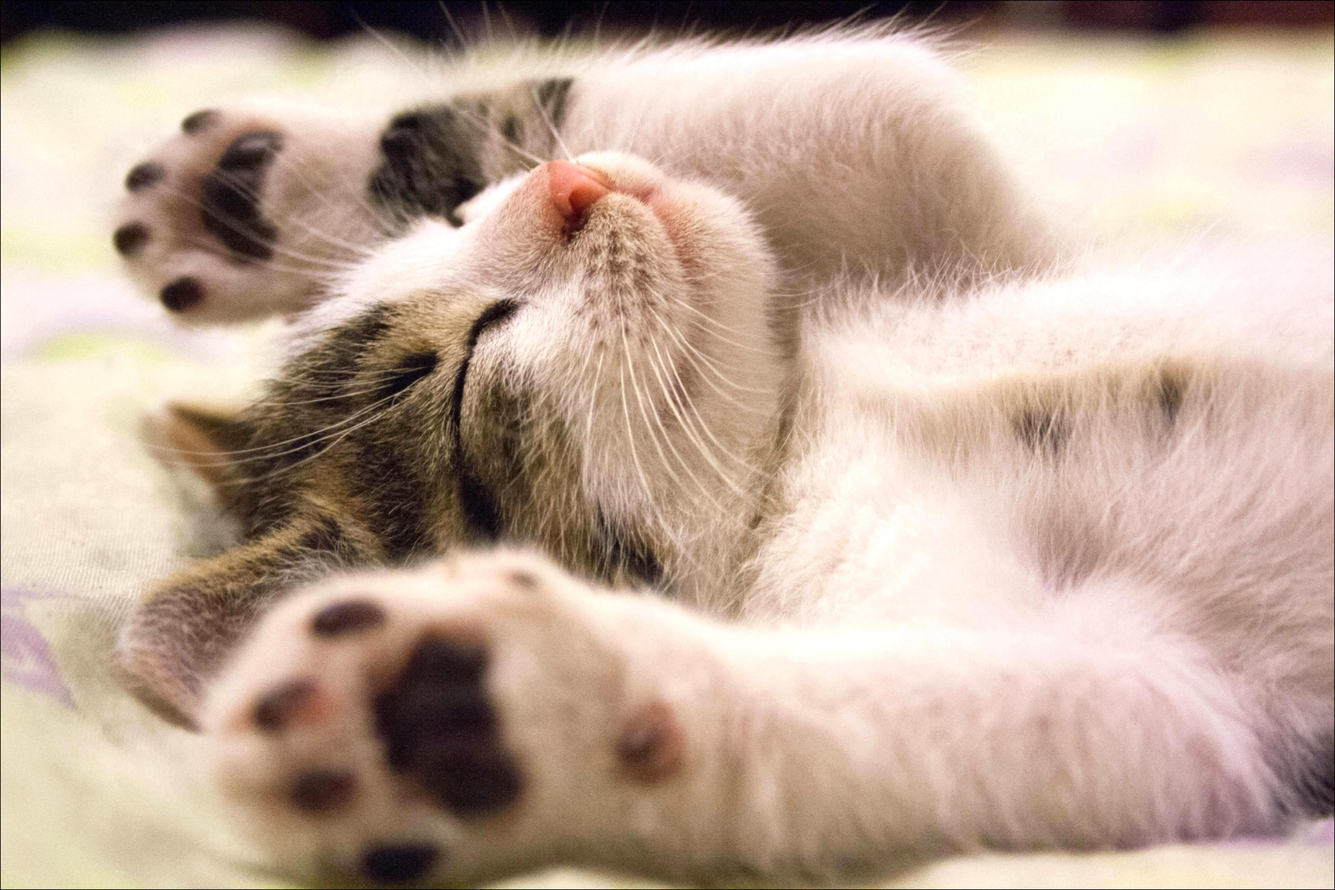
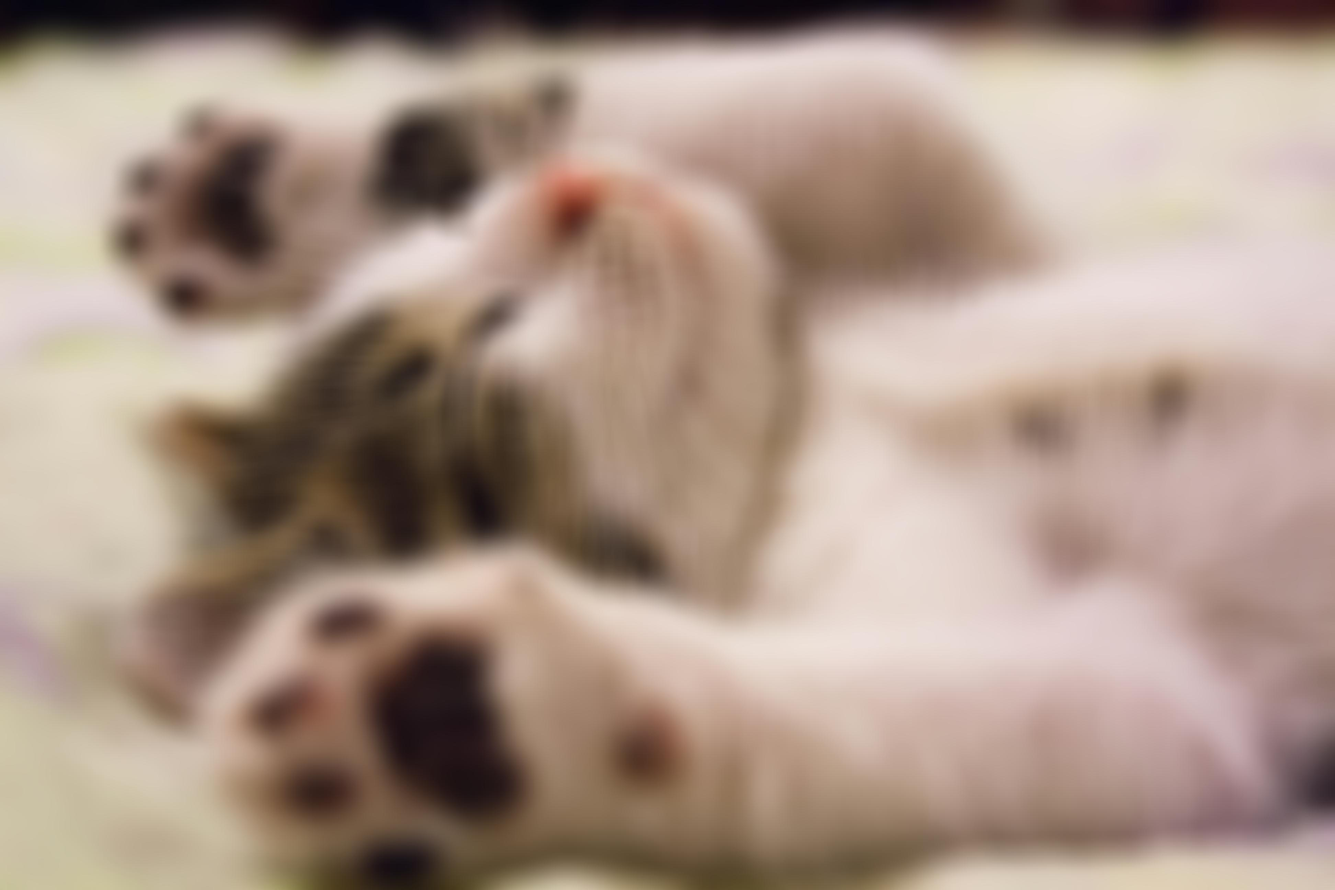
add some comments and use numpy

diff --git a/main.py b/main.py
@@ -1,167 +1,192 @@
 from PIL import Image
-#TODO : fourier filter
-
-sharp_kernal    = [[0, -1, 0], [-1, 5, -1], [0, -1, 0]]
-blur_kernal3by3 = [[1/9, 1/9, 1/9], [1/9, 1/9, 1/9], [1/9, 1/9, 1/9]]
-blur_kernel5by5 = [
-    [ 1/225,  4/225,  6/225,  4/225,  1/225],
-    [ 4/225, 16/225, 24/225, 16/225,  4/225],
-    [ 6/225, 24/225, 36/225, 24/225,  6/225],
-    [ 4/225, 16/225, 24/225, 16/225,  4/225],
-    [ 1/225,  4/225,  6/225,  4/225,  1/225]
-]
-
+import numpy as np
+# Define kernels for image filtering
+sharp_kernal = [[0, -1, 0], [-1, 5, -1], [0, -1, 0]]  # Kernel for sharpening
+blur_kernel101by101 = np.ones((101, 101)) / 101**2  # 101x101 blur kernel
 
 def load_image(image_path) -> Image:
     """ Load an image from the specified file path """
-    image = Image.open(image_path)
-    image.load()
-    return image
-
+    image = Image.open(image_path)  # Open the image file
+    image.load()  # Ensure the image is loaded into memory
+    return image  # Return the loaded image
 
 def color_filter(image: Image, rgb: dict) -> Image:
-    """ Apply a red filter to the image
-        - rgb: dictionary with the percentage to increase the color [ r : [0,100%] , g : [0,100%] , b : [0,100%] ]
     """
-
-    pixels = image.load()
+    Apply a color filter to the image.
+    - rgb: dictionary with percentages to adjust the colors (r, g, b).
+    """
+    pixels = image.load()  # Access the image pixels
     for i in range(image.width):
         for j in range(image.height):
-            r, g, b = pixels[i, j]
-            pixels[i, j] = (r + int(r * rgb["r"] / 100), g + int(g * rgb["g"] / 100), r + int(b * rgb["b"] / 100))
-    return image
-
+            r, g, b = pixels[i, j]  # Get the current pixel values
+            # Adjust the pixel values by the specified percentage
+            pixels[i, j] = (
+                r + int(r * rgb["r"] / 100),
+                g + int(g * rgb["g"] / 100),
+                b + int(b * rgb["b"] / 100)
+            )
+    return image  # Return the modified image
 
 def brightness(image: Image, brightness: float) -> Image:
-    """ Apply a brightness filter to the image """
+    """
+    Apply a brightness filter to the image.
+    - brightness: positive percentage to increase brightness.
+    """
     if brightness < 0:
         raise ValueError("Brightness must be a positive number")
+    # Use the color filter function to apply the same increase to all channels
     return color_filter(image, {"r": brightness, "g": brightness, "b": brightness})
 
-
 def darkness(image: Image, darkness: float) -> Image:
-    """ Apply a darkness filter to the image
-        - darkness: percentage to decrease [0,100%]"""
-    if not ( 0 <= darkness <= 100):
-        raise ValueError("Darkness must be a positive number")
+    """
+    Apply a darkness filter to the image.
+    - darkness: percentage to decrease brightness in each channel.
+    """
+    if not (0 <= darkness <= 100):
+        raise ValueError("Darkness must be between 0 and 100")
+    # Use a negative percentage to reduce brightness in all channels
     return color_filter(image, {"r": -darkness, "g": -darkness, "b": -darkness})
 
-# \text{Luminance} = 0.299 \times R + 0.587 \times G + 0.114 \times B
 def gray(image: Image, use_luminance: bool = True) -> Image:
-    """ Convert the image to grayscale
-        - use_luminance: if True use the luminance formula, otherwise use the average of the RGB values """
+    """
+    Convert the image to grayscale.
+    - use_luminance: if True, use luminance formula; otherwise, use the RGB average.
+    """
+    # Create a new grayscale image
     new_image = Image.new("L", (image.width, image.height))
     new_image.load()
     for i in range(image.width):
         for j in range(image.height):
-            r, g, b = image.getpixel((i, j))
-            # calculate luminance which is the average of the RGB values
-            if (use_luminance):
-                luminance = int(0.299 * r + 0.587 * g + 0.114 * b)
-            else:
-                luminance = int((r + g + b) / 3)
-            new_image.putpixel((i, j), luminance)
-    return new_image
-
+            r, g, b = image.getpixel((i, j))  # Get the RGB values of the pixel
+            # Calculate luminance or average based on the parameter
+            luminance = int(0.299 * r + 0.587 * g + 0.114 * b) if use_luminance else int((r + g + b) / 3)
+            new_image.putpixel((i, j), luminance)  # Set the grayscale value
+    return new_image  # Return the grayscale image
 
 def save_image(image: Image, save_path: str) -> None:
-    """ Save an image to the specified file path """
+    """ Save the image to the specified file path """
     image.save(save_path)
 
-
-def black_and_white(image: Image, threshold: int , use_luminance = True) -> Image:
-    """ Convert the image to black and white
-        - threshold: value to determine if the pixel is black or white """
-    # Convert the image to grayscale
+def black_and_white(image: Image, threshold: int, use_luminance=True) -> Image:
+    """
+    Convert the image to black and white.
+    - threshold: Value to determine the cutoff between black and white.
+    """
     if not (0 <= threshold <= 256):
         raise ValueError("Threshold must be between 0 and 256")
-
+    # Convert the image to grayscale first
     new_image = Image.new("L", (image.width, image.height))
     new_image.load()
     for i in range(image.width):
         for j in range(image.height):
-            r, g, b = image.getpixel((i, j))
-            if use_luminance :
-                luminance = int(0.299 * r + 0.587 * g + 0.114 * b)
-            else :
-                luminance = (r + g + b) // 3
-            if luminance > threshold:
-                new_image.putpixel((i, j), 255)
-            else:
-                new_image.putpixel((i, j), 0)
+            r, g, b = image.getpixel((i, j))  # Get the RGB values
+            # Calculate luminance or average based on the parameter
+            luminance = int(0.299 * r + 0.587 * g + 0.114 * b) if use_luminance else (r + g + b) // 3
+            # Compare with threshold and set pixel to either black or white
+            new_image.putpixel((i, j), 255 if luminance > threshold else 0)
     return new_image
 
-#TODO : use np and give the ability to change the degree of the blur
 def convolution(image: Image, kernel: list) -> Image:
-    """ Apply a convolution filter to the image
-        - kernel: 2D list with the kernel values."""
-    new_image = Image.new("RGB", (image.width, image.height))
+    """
+    Apply a convolution filter to the image.
+    - kernel: 2D list representing the convolution kernel.
+    """
+    new_image = Image.new("RGB", (image.width, image.height))  # Create an output image
     new_image.load()
     pixels = image.load()
-    radius = len(kernel)//2
-    # start from second pixel and end at the second last pixel
-    for i in range(radius ,  image.width-radius):
-        for j in range(radius , image.height-radius):
-            new_pixel = [0, 0, 0]
-            for x in range(-radius, radius+1 ):
-                for y in range(-radius, radius+1):
-                        r, g, b = pixels[i + x, j + y]
-                        new_pixel[0] += r * kernel[x + 1][y + 1]
-                        new_pixel[1] += g * kernel[x + 1][y + 1]
-                        new_pixel[2] += b * kernel[x + 1][y + 1]
+    radius = len(kernel) // 2  # Calculate the kernel radius
+    # Iterate through each pixel, avoiding the borders
+    for i in range(radius, image.width - radius):
+        for j in range(radius, image.height - radius):
+            new_pixel = [0, 0, 0]  # Initialize new pixel values
+            for x in range(-radius, radius + 1):
+                for y in range(-radius, radius + 1):
+                    r, g, b = pixels[i + x, j + y]  # Get the neighboring pixel values
+                    # Multiply each channel by the corresponding kernel value
+                    weight = kernel[x + radius][y + radius]
+                    new_pixel[0] += r * weight
+                    new_pixel[1] += g * weight
+                    new_pixel[2] += b * weight
+            # Set the calculated pixel values to the output image
+            new_image.putpixel((i, j), tuple(map(int, new_pixel)))
+    return new_image  # Return the filtered image
 
-            new_image.putpixel((i, j), (int(new_pixel[0]), int(new_pixel[1]), int(new_pixel[2])))
-    return new_image
+def faster_convolution(image: Image, kernel: list) -> Image:
+        """
+        Apply a convolution filter to the image using NumPy for speed.
+        - kernel: 2D list representing the convolution kernel.
+        """
+        # Convert the image and kernel to NumPy arrays
+        kernel = np.array(kernel)
+        image_array = np.array(image)
 
+        # Extract the dimensions of the image and kernel
+        kernel_size = kernel.shape[0]
+        radius = kernel_size // 2
+        height, width, channels = image_array.shape
 
+        # Pad the image to handle border pixels during convolution
+        padded_image = np.pad(image_array, ((radius, radius), (radius, radius), (0, 0)), mode='edge')
 
+        # Create an empty array for the output image
+        output_array = np.zeros_like(image_array)
+
+        # Perform convolution using nested loops and NumPy operations
+        for i in range(height):
+            for j in range(width):
+                # Extract the region of interest (ROI) from the padded image
+                roi = padded_image[i:i + kernel_size, j:j + kernel_size]
+                # Apply the kernel to each channel (R, G, B)
+                for c in range(channels):
+                    output_array[i, j, c] = np.sum(roi[:, :, c] * kernel)
+
+        # Clip the values to stay in the valid range [0, 255]
+        output_array = np.clip(output_array, 0, 255).astype(np.uint8)
+
+        # Convert the result back to a PIL image
+        return Image.fromarray(output_array)
 
 def main():
-    main_image = load_image("example.jpg")
-    image1 = main_image.copy()
-    image2 = main_image.copy()
-    image3 = main_image.copy()
-    image4 = main_image.copy()
-    image5 = main_image.copy()
-    image6 = main_image.copy()
-    image7 = main_image.copy()
-    image8 = main_image.copy()
-    image9 = main_image.copy()
+    """ Main function to demonstrate the image processing operations """
+    main_image = load_image("example.jpg")  # Load the input image
+    # Create copies of the main image for different operations
+    image1, image2, image3, image4, image5, image6, image7, image8, image9 = [main_image.copy() for _ in range(9)]
 
-    r1 = color_filter(image1, {"r":20, "g":0, "b":0})
-    save_image(r1, "output.jpg")
+    # Apply color filter (increase red channel by 20%)
+    save_image(color_filter(image1, {"r": 20, "g": 0, "b": 0}), "output.jpg")
     print("Image 1 saved")
-    r2 = brightness(image2, 50)
-    save_image(r2, "output2.jpg")
+
+    # Apply brightness filter (increase brightness by 50%)
+    save_image(brightness(image2, 50), "output2.jpg")
     print("Image 2 saved")
-    r3 = color_filter(image3, {"r":0, "g":30, "b":0})
-    save_image(r3, "output3.jpg")
+
+    # Apply color filter (increase green channel by 30%)
+    save_image(color_filter(image3, {"r": 0, "g": 30, "b": 0}), "output3.jpg")
     print("Image 3 saved")
-    r4 = gray(image4)
-    save_image(r4, "output4.jpg")
-    print( "Image 4 saved")
-    r5 = gray(image5, False)
-    save_image(r5, "output5.jpg")
-    print( "Image 5 saved")
-    r6 = darkness(image6, 50)
-    save_image(r6, "output6.jpg")
-    print( "Image 6 saved")
 
-    r7 = black_and_white(image7, 128)
-    save_image(r7, "output7.jpg")
-    print( "Image 7 saved")
+    # Convert image to grayscale using luminance formula
+    save_image(gray(image4), "output4.jpg")
+    print("Image 4 saved")
 
-    r8 = convolution(image8, sharp_kernal)
-    save_image(r8, "output8.jpg")
-    print( "Image 8 saved")
+    # Convert image to grayscale using average formula
+    save_image(gray(image5, False), "output5.jpg")
+    print("Image 5 saved")
 
-    r9 = convolution(image9, blur_kernel5by5)
-    save_image(r9, "output9.jpg")
-    print( "Image 9 saved")
+    # Apply darkness filter (reduce brightness by 50%)
+    save_image(darkness(image6, 50), "output6.jpg")
+    print("Image 6 saved")
 
+    # Convert image to black and white with threshold of 128
+    save_image(black_and_white(image7, 128), "output7.jpg")
+    print("Image 7 saved")
 
+    # Apply sharpening filter using convolution
+    save_image(convolution(image8, sharp_kernal), "output8.jpg")
+    print("Image 8 saved")
 
-
+    # Apply 101x101 blur filter using convolution
+    save_image(faster_convolution(image9 , blur_kernel101by101), "output9.jpg")
+    print("Image 9 saved")
 
 if __name__ == "__main__":
     main()
